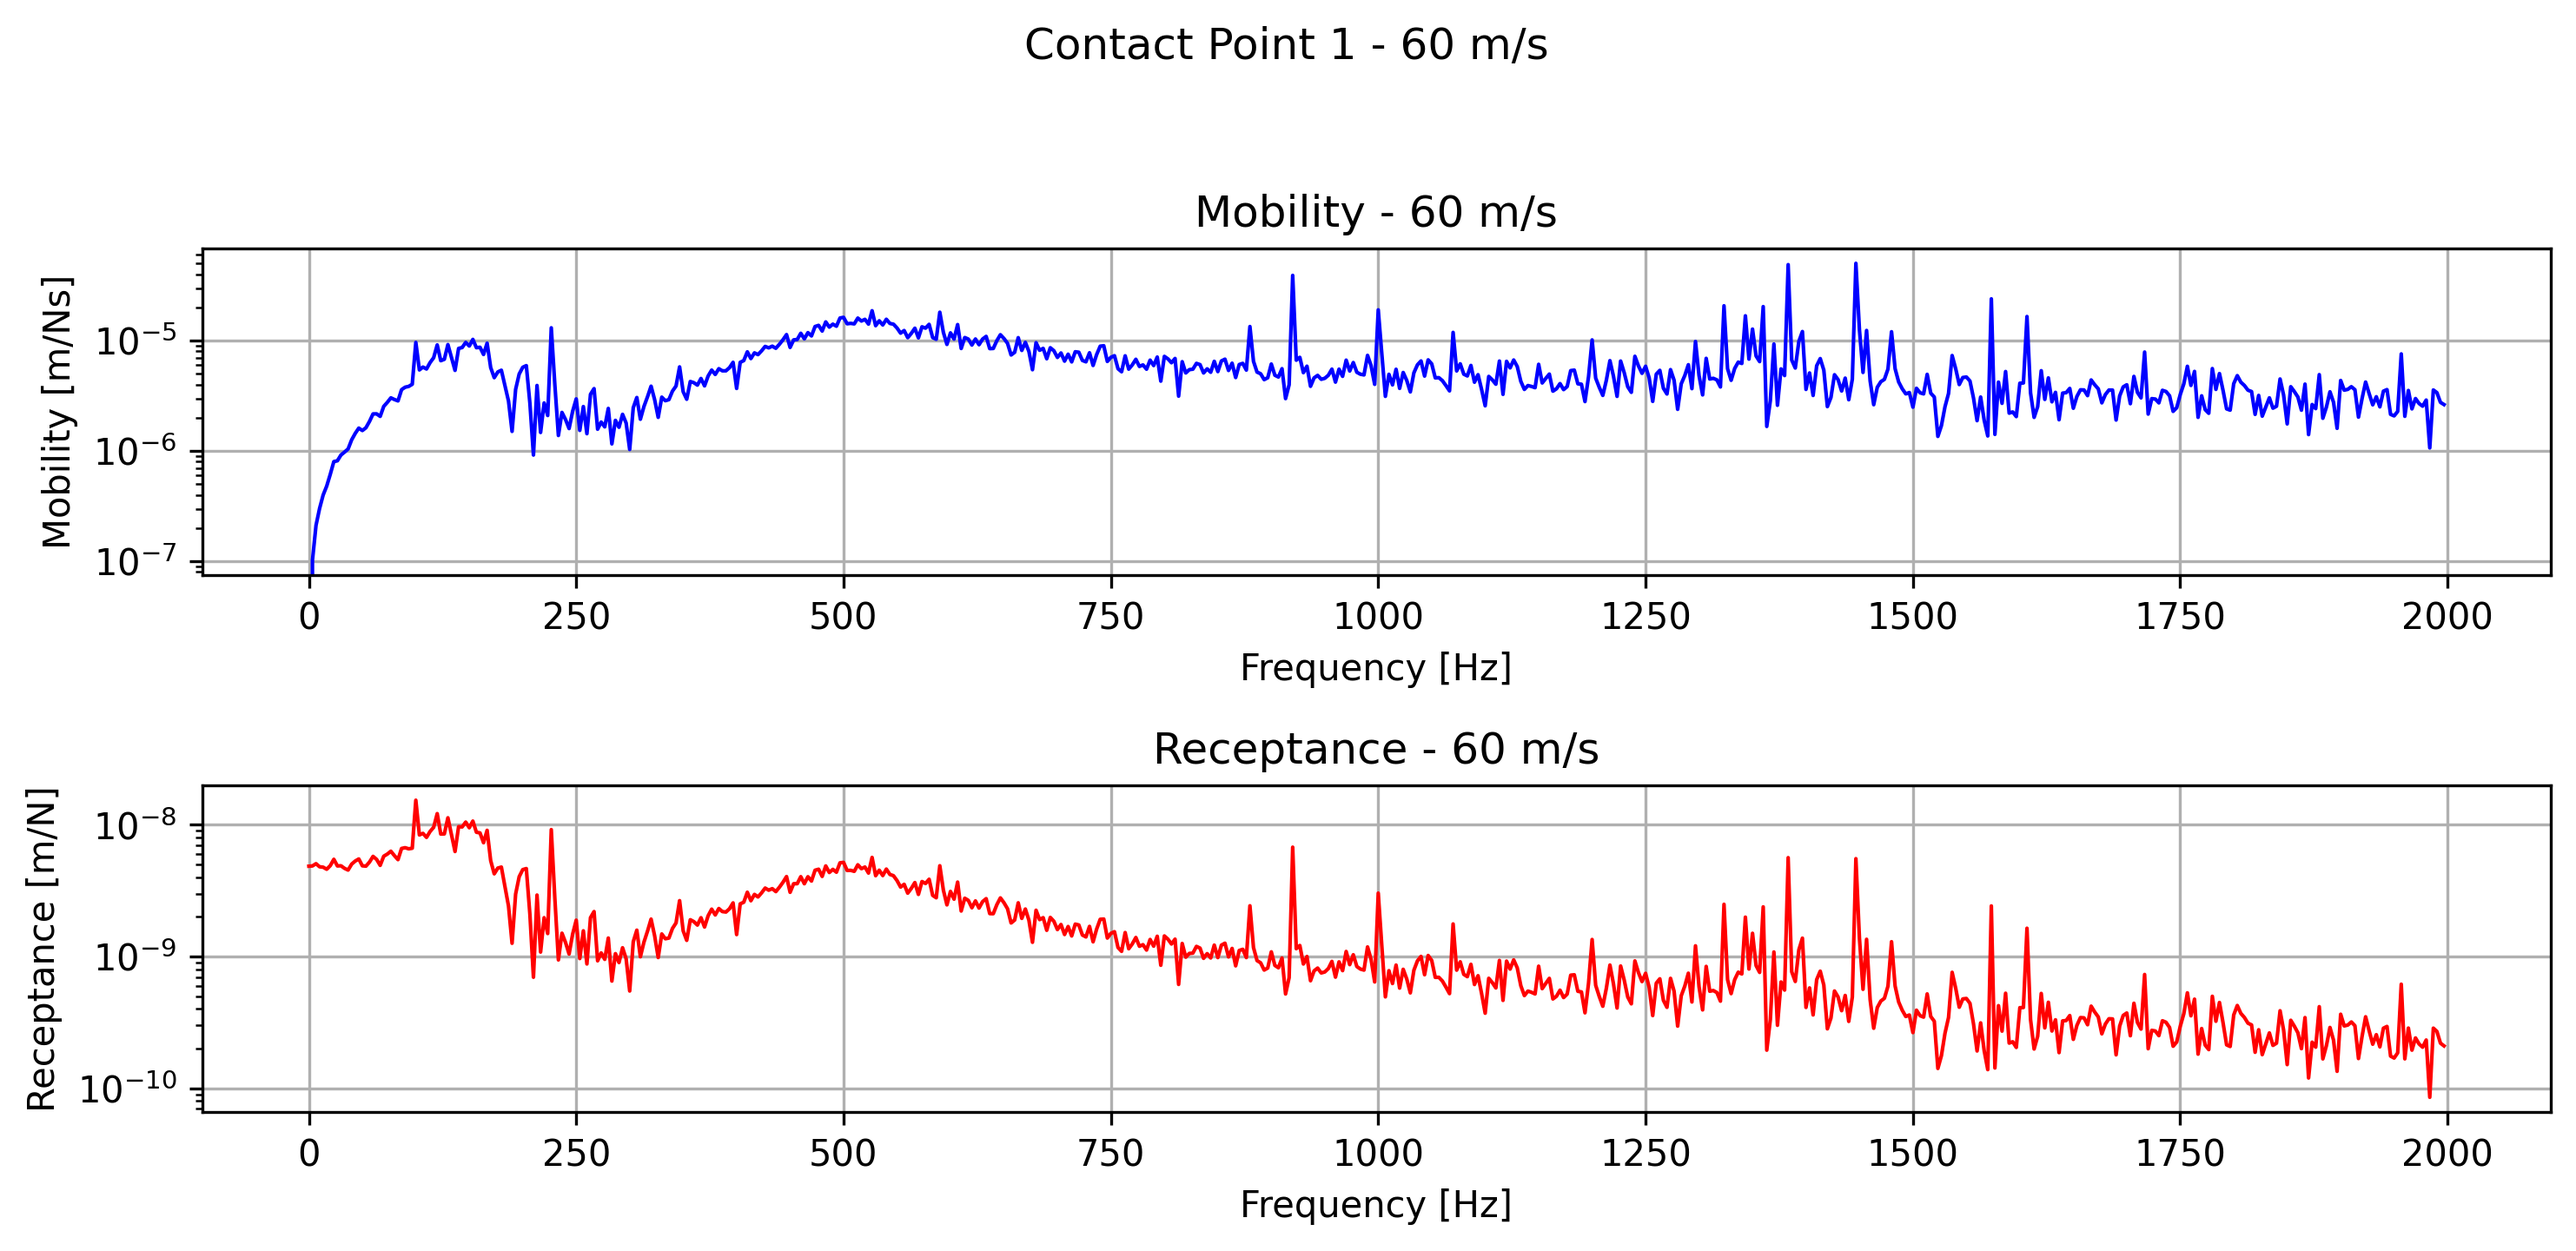
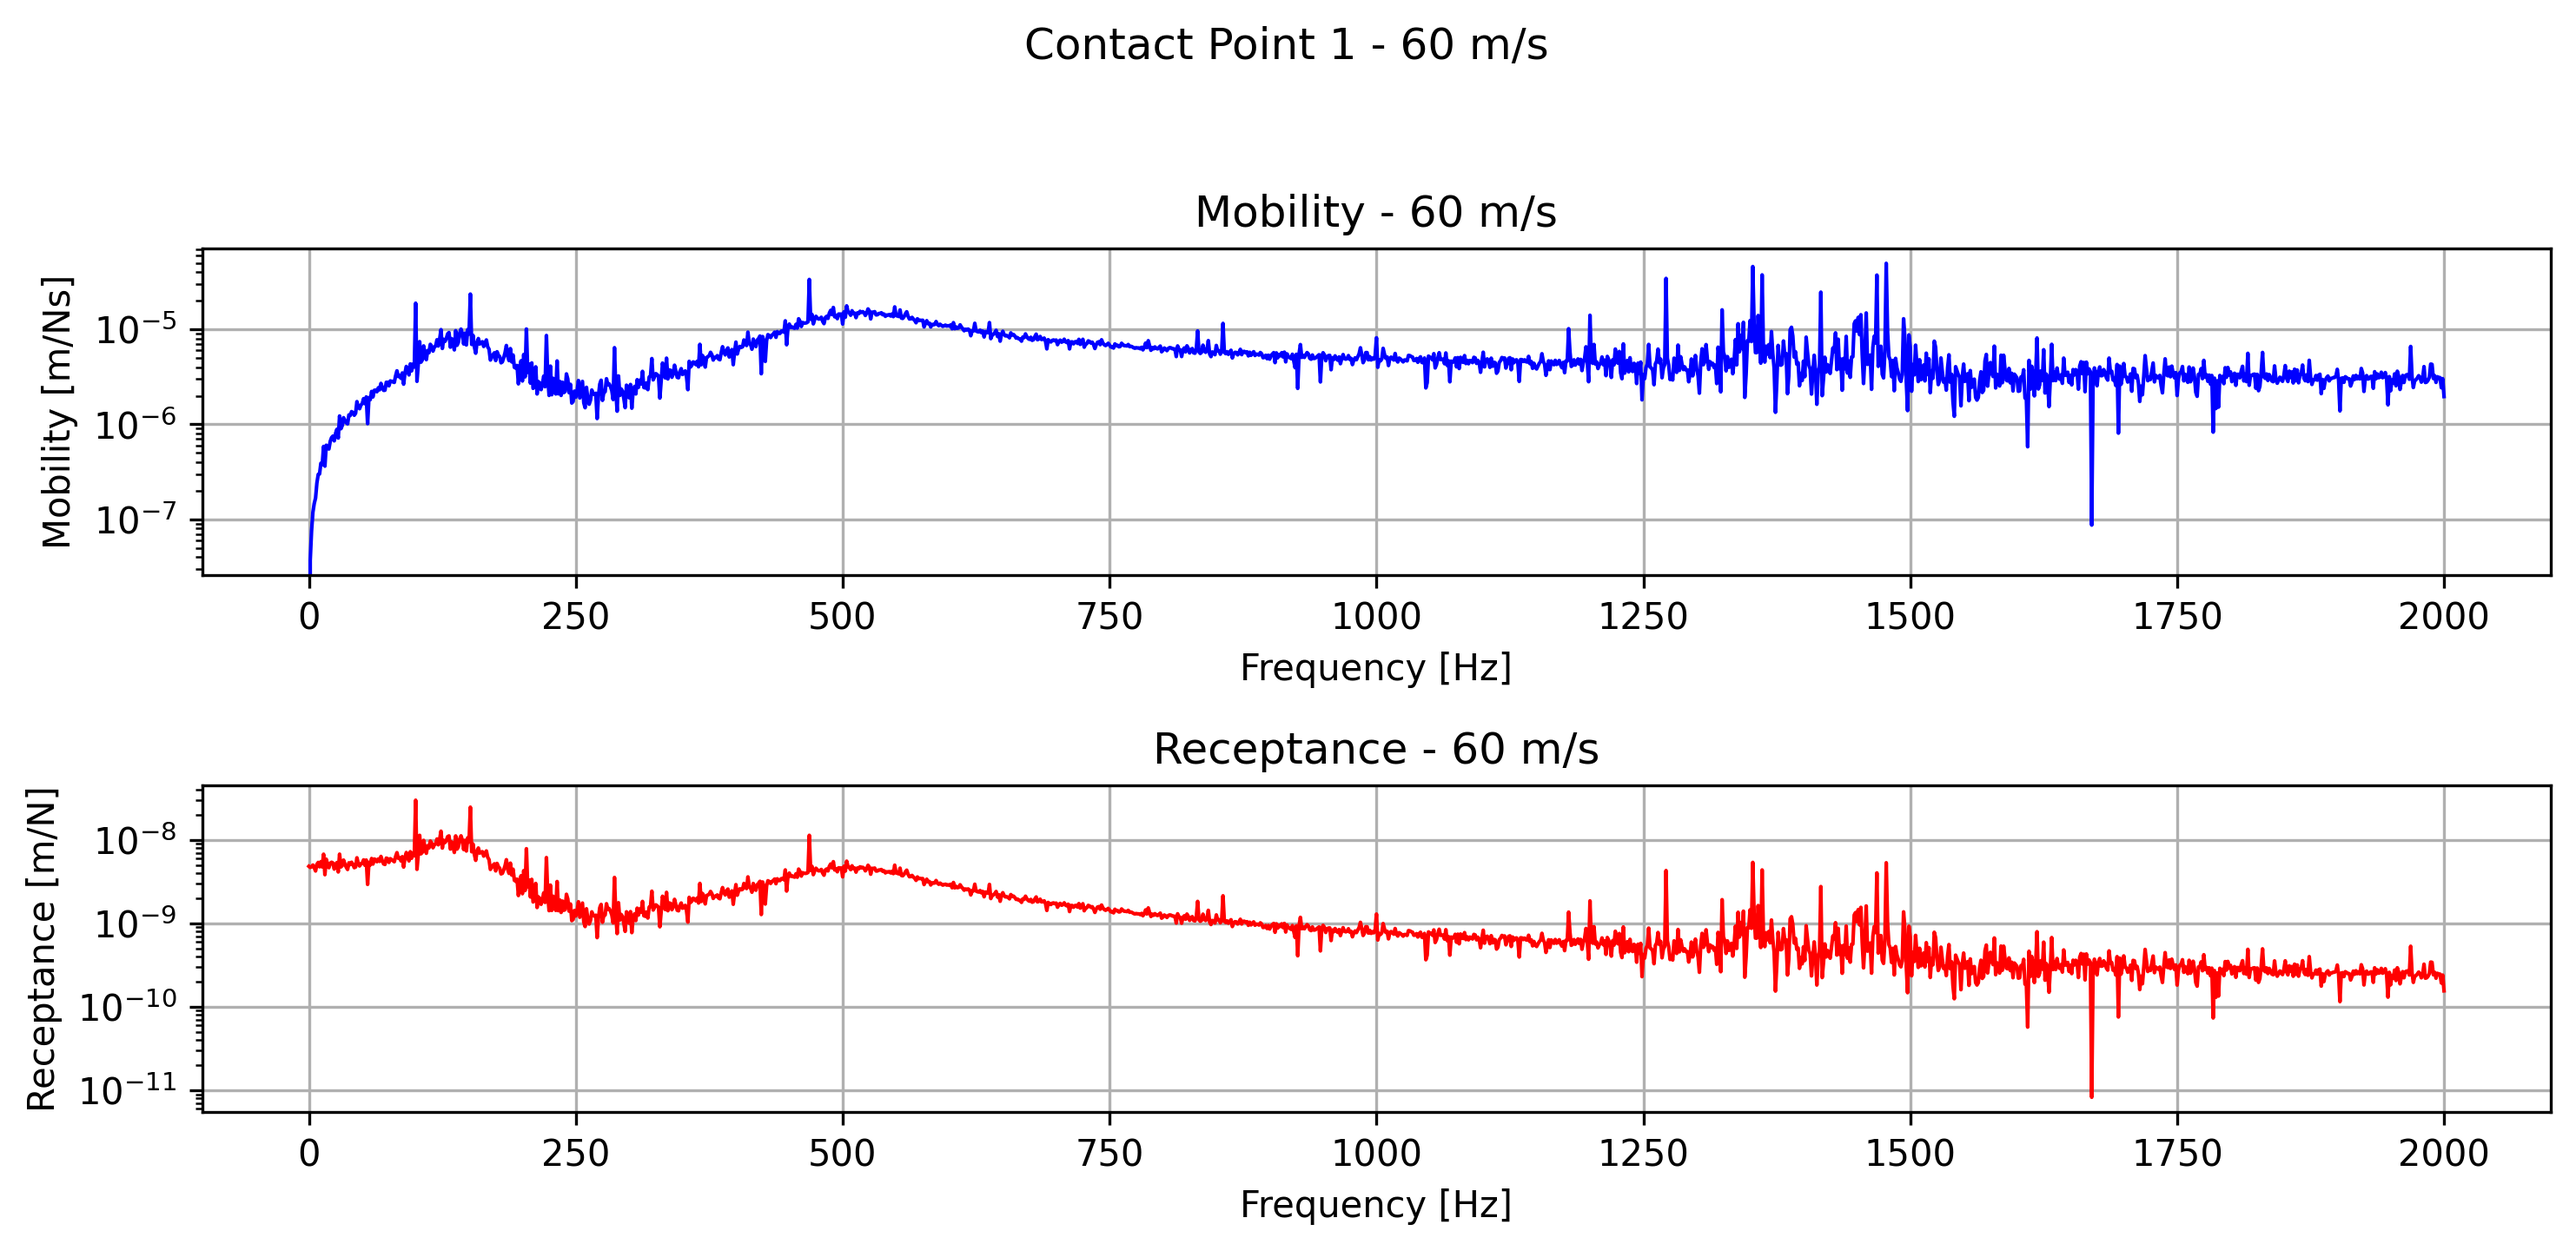
plot chang

diff --git a/Moving_Force.py b/Moving_Force.py
@@ -45,7 +45,7 @@ track = SimplePeriodicBallastedSingleRailTrack(
                 sb = [150e6, 0],    # Ballast stiffness [N/m]
                 db = [48000, 0]     # Ballast damping [Ns/m]
     ),
-    num_mount   = 200,               # Number of discrete mounting positions
+    num_mount   = 400,               # Number of discrete mounting positions
     distance    = 0.6               # Distance between sleepers [m]
 )
 
@@ -53,7 +53,7 @@ track = SimplePeriodicBallastedSingleRailTrack(
 # 2. SIMULATION SETUP
 # =============================================================================
 # Define boundary conditions (Perfectly Matched Layer absorbing boundary)
-boundary    = PMLRailDampVertic(l_bound = 20.0)  # width of boundary domain
+boundary    = PMLRailDampVertic(l_bound = 40.0)  # width of boundary domain
 
 # Output directory
 output_dir = Path('mobility_plots')
@@ -73,7 +73,7 @@ for vel in velocities:
     print(f"Computing velocity: {vel} m/s ({vel*3.6:.1f} km/h)")
     
     # Define moving load excitation
-    starting_position = 55.0
+    starting_position = 80.0
     excitation = ConstantForce(
         x_excit         = [starting_position],
         # x_excit         = [starting_position,
@@ -84,6 +84,7 @@ for vel in velocities:
 
     # Discretize domain
     discretization = DiscretizationEBBVerticConst(
+        req_simt   = 1,
         track = track,
         bound = boundary)
 

diff --git a/rolland/postprocessing.py b/rolland/postprocessing.py
@@ -173,7 +173,7 @@ class PostProcessing(ABCHasTraits):
         plt.title('Displacement')
         plt.ylabel('Time Step [s]')
         plt.xlabel('Beam Pos. [m]')
-        plt.ylim(0.1, 0)
+        plt.ylim(simulation_time, 0)
         plt.colorbar(label='Displacement [m]')
         plt.clim(-1e-6, 1e-6)
 
